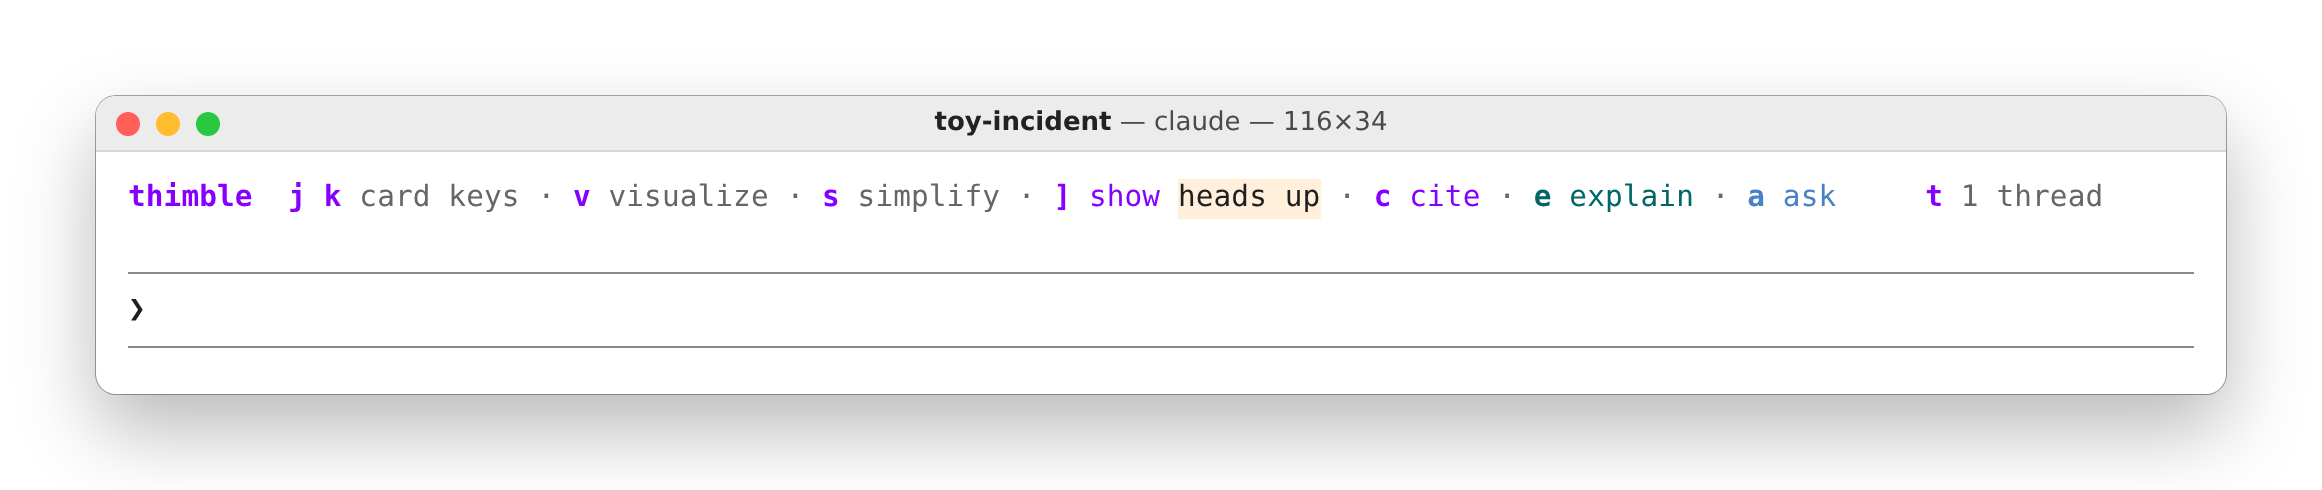
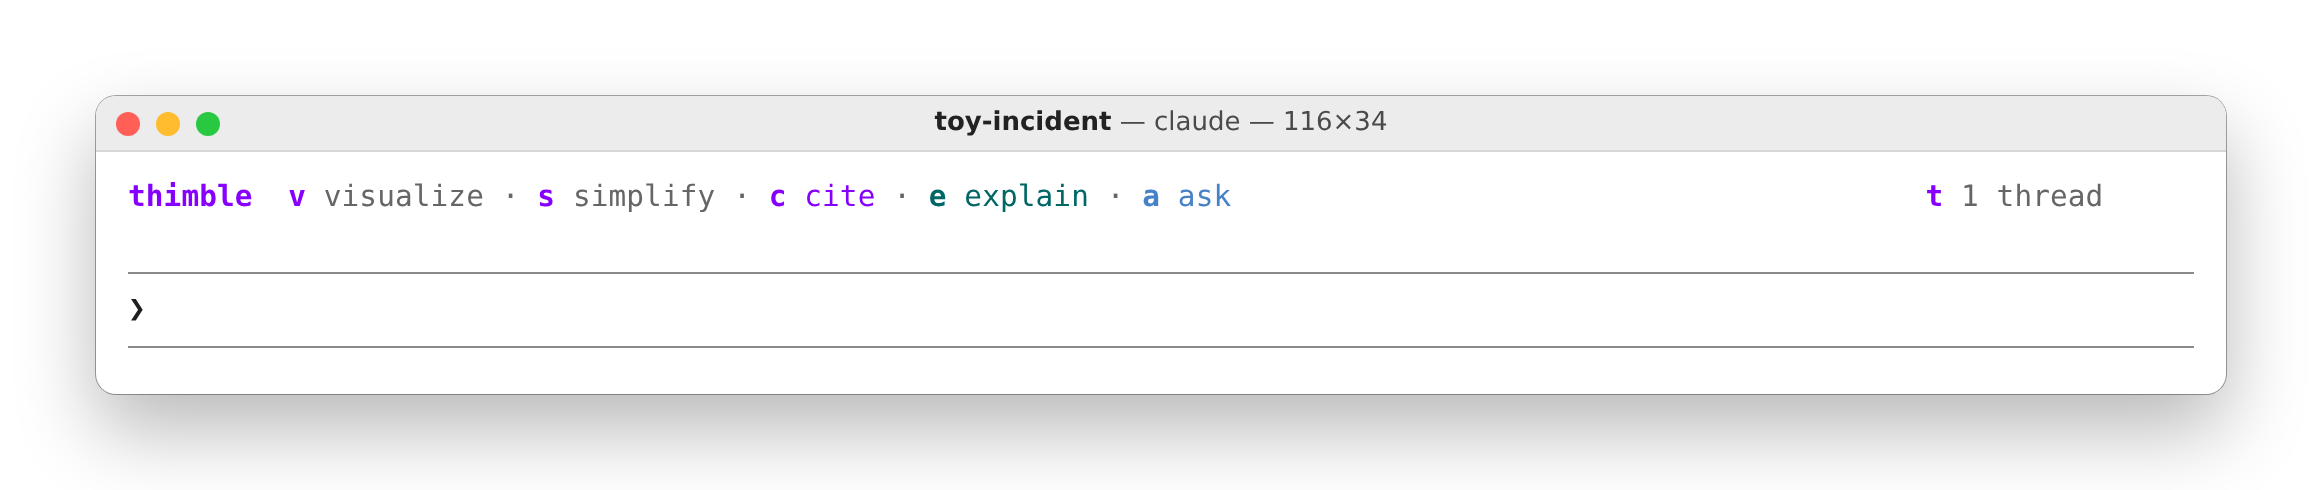
README: the Features list names only the bar's keys; images fixed (#104)
* README: the Features list names only the keys on the bar

* README: the bar without card keys or ], a uniform side pane in the terminal image, and the whole Files tab in the workbench image

---------

Changed region(s): [[0.124, 0.3673, 0.8062, 0.4592]]

diff --git a/README.md b/README.md
@@ -12,17 +12,15 @@ https://github.com/user-attachments/assets/878ed146-fc7c-486a-8f41-ac14b24c5068
 
 ## Features
 
-![thimble's bar above Claude Code's prompt: j k card keys, v visualize, s simplify, \] show heads up, c cite, e explain, a ask, t 1 thread](docs/assets/thimble-bar.png)
+![thimble's bar above Claude Code's prompt: v visualize, s simplify, c cite, e explain, a ask, t 1 thread](docs/assets/thimble-bar.png)
 
 Press a key at an empty prompt, or click it:
 
 - **`v` visualize**: an interactive card of the last answer
 - **`s` simplify**: a shorter, plainer version of the last answer
-- **`]` show**: the explainers and heads-ups thimble adds to each answer
 - **`c` cite**: a second Claude checks the selected words against your files
-- **`e` explain**: a short explainer of the selected words
-- **`a` ask**: a side thread about the selected words or part of a card
-- **`l` labels**: records sorted into categories, which you can open and correct
+- **`e` explain**: a short explainer of the selected words; thimble also adds explainers and heads-ups to each answer
+- **`a` ask**: a side thread about the selected words or part of a card; `t` lists them
 
 ## Installation
 
